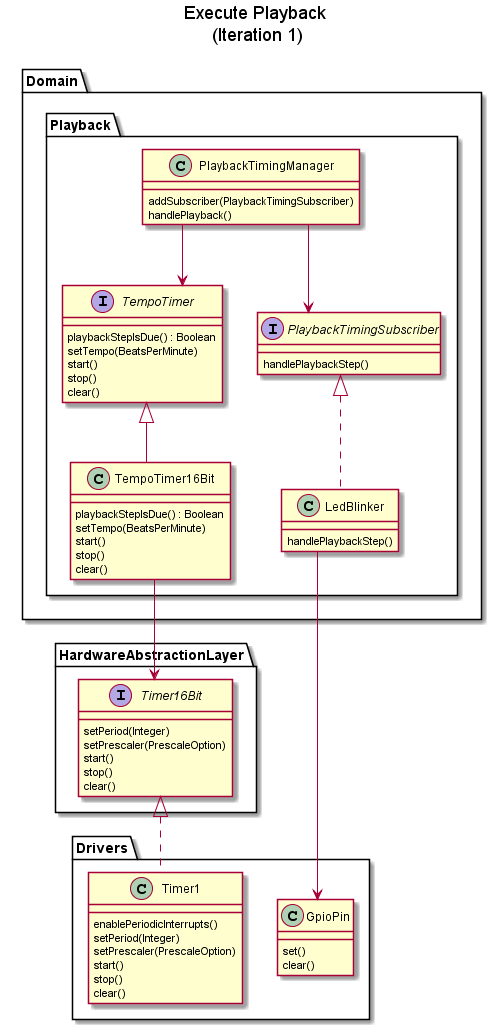
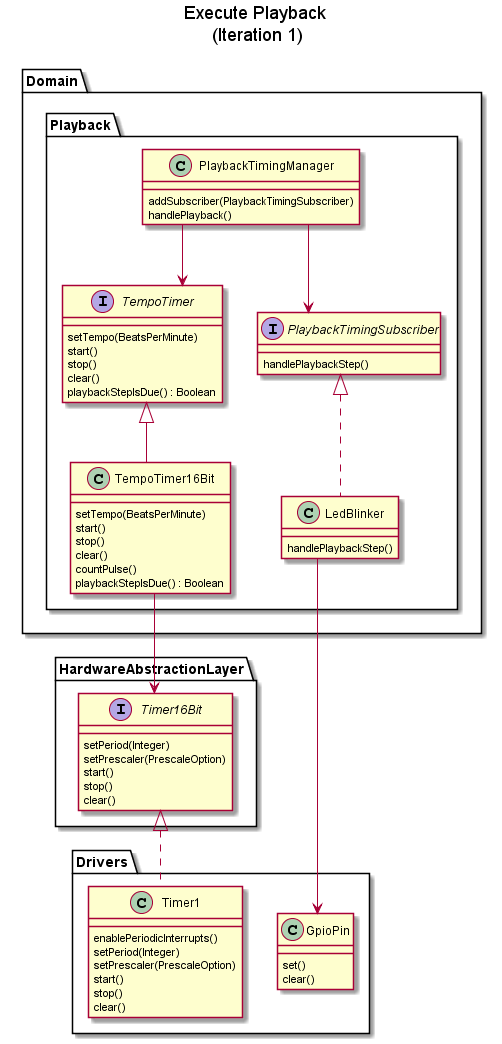
Begin implementation of TempoTimer16Bit class
Add first unit tests and some implementation of the Timer16Bit-based
implementation of the TempoTimer interface. Update the corresponding
UML class-diagrams.

diff --git a/app/domain/playback/tempotimer/test/tempotimer16bit_test.cpp b/app/domain/playback/tempotimer/test/tempotimer16bit_test.cpp
@@ -1,0 +1,54 @@
+/*
+****************************************************************************************************
+* brief : Unit tests for Timer16Bit implementation of TempoTimer interface
+****************************************************************************************************
+*/
+
+#include "gtest/gtest.h"
+#include "traceprint.h"
+#include "linuxtypes.h"
+#include "tempotimer16bit.h"
+#include "timer16bitmock.h"
+
+using testing::NiceMock;
+
+static constexpr u16 pulsesPerSixteenthNote = 120;
+
+class TestTempoTimer16Bit : public ::testing::Test
+{
+public:
+	NiceMock<Timer16BitMock> timer16Mock;
+	TempoTimer16Bit tempoTimer = TempoTimer16Bit(timer16Mock);
+
+	void countTempoPulses(u16 numPulses)
+	{
+		for(size_t i = 0; i < numPulses; i++)
+		{
+			tempoTimer.countPulse();
+		}
+	}
+};
+
+TEST_F(TestTempoTimer16Bit, Prescaler_set_to_1_in_constructor)
+{
+	EXPECT_CALL(timer16Mock, setPrescaler(Timer16Bit::PrescaleOption::_1));
+	TempoTimer16Bit tempoTimer(timer16Mock); // mock called from constructor
+}
+
+TEST_F(TestTempoTimer16Bit, Playback_not_due_if_not_enough_tempo_pulses_counted)
+{
+	EXPECT_FALSE(tempoTimer.playbackStepIsDue());
+}
+
+TEST_F(TestTempoTimer16Bit, Playback_is_due_if_enough_pulses_counted)
+{
+	countTempoPulses(pulsesPerSixteenthNote);
+	EXPECT_TRUE(tempoTimer.playbackStepIsDue());
+}
+
+TEST_F(TestTempoTimer16Bit, Playback_no_longer_due_after_reset)
+{
+	countTempoPulses(pulsesPerSixteenthNote);
+	tempoTimer.resetPlaybackStepDue();
+	EXPECT_FALSE(tempoTimer.playbackStepIsDue());
+}

diff --git a/app/domain/playback/tempotimer/src/tempotimer16bit.cpp b/app/domain/playback/tempotimer/src/tempotimer16bit.cpp
@@ -1,0 +1,28 @@
+/*
+****************************************************************************************************
+* brief : Timer16Bit implementation of TempoTimer interface
+****************************************************************************************************
+*/
+
+#include "tempotimer16bit.h"
+
+TempoTimer16Bit::TempoTimer16Bit(Timer16Bit& timer16bit) : timer16bit(timer16bit)
+{
+	timer16bit.setPrescaler(Timer16Bit::PrescaleOption::_1);
+}
+
+void TempoTimer16Bit::countPulse()
+{
+	countedPulses++;
+}
+
+bool TempoTimer16Bit::playbackStepIsDue()
+{
+	return (countedPulses >= pulsesPerSixteenthNote) ? true : false;
+}
+
+void TempoTimer16Bit::resetPlaybackStepDue()
+{
+	countedPulses = 0;
+}
+

diff --git a/app/domain/playback/tempotimer/inc/tempotimer16bit.h b/app/domain/playback/tempotimer/inc/tempotimer16bit.h
@@ -1,0 +1,27 @@
+/*
+****************************************************************************************************
+* brief : Timer16Bit implementation of TempoTimer interface
+****************************************************************************************************
+*/
+
+#ifndef TEMPO_TIMER_16_BIT_H
+#define TEMPO_TIMER_16_BIT_H
+
+#include "linuxtypes.h"
+#include "timer16bit.h"
+
+class TempoTimer16Bit
+{
+public:
+	TempoTimer16Bit(Timer16Bit& timer16bit);
+	void countPulse();
+	bool playbackStepIsDue();
+	void resetPlaybackStepDue();
+
+private:
+	static constexpr u16 pulsesPerSixteenthNote = 120;
+	Timer16Bit& timer16bit;
+	u16 countedPulses = 0;
+};
+
+#endif /* TEMPO_TIMER_16_BIT_H */
